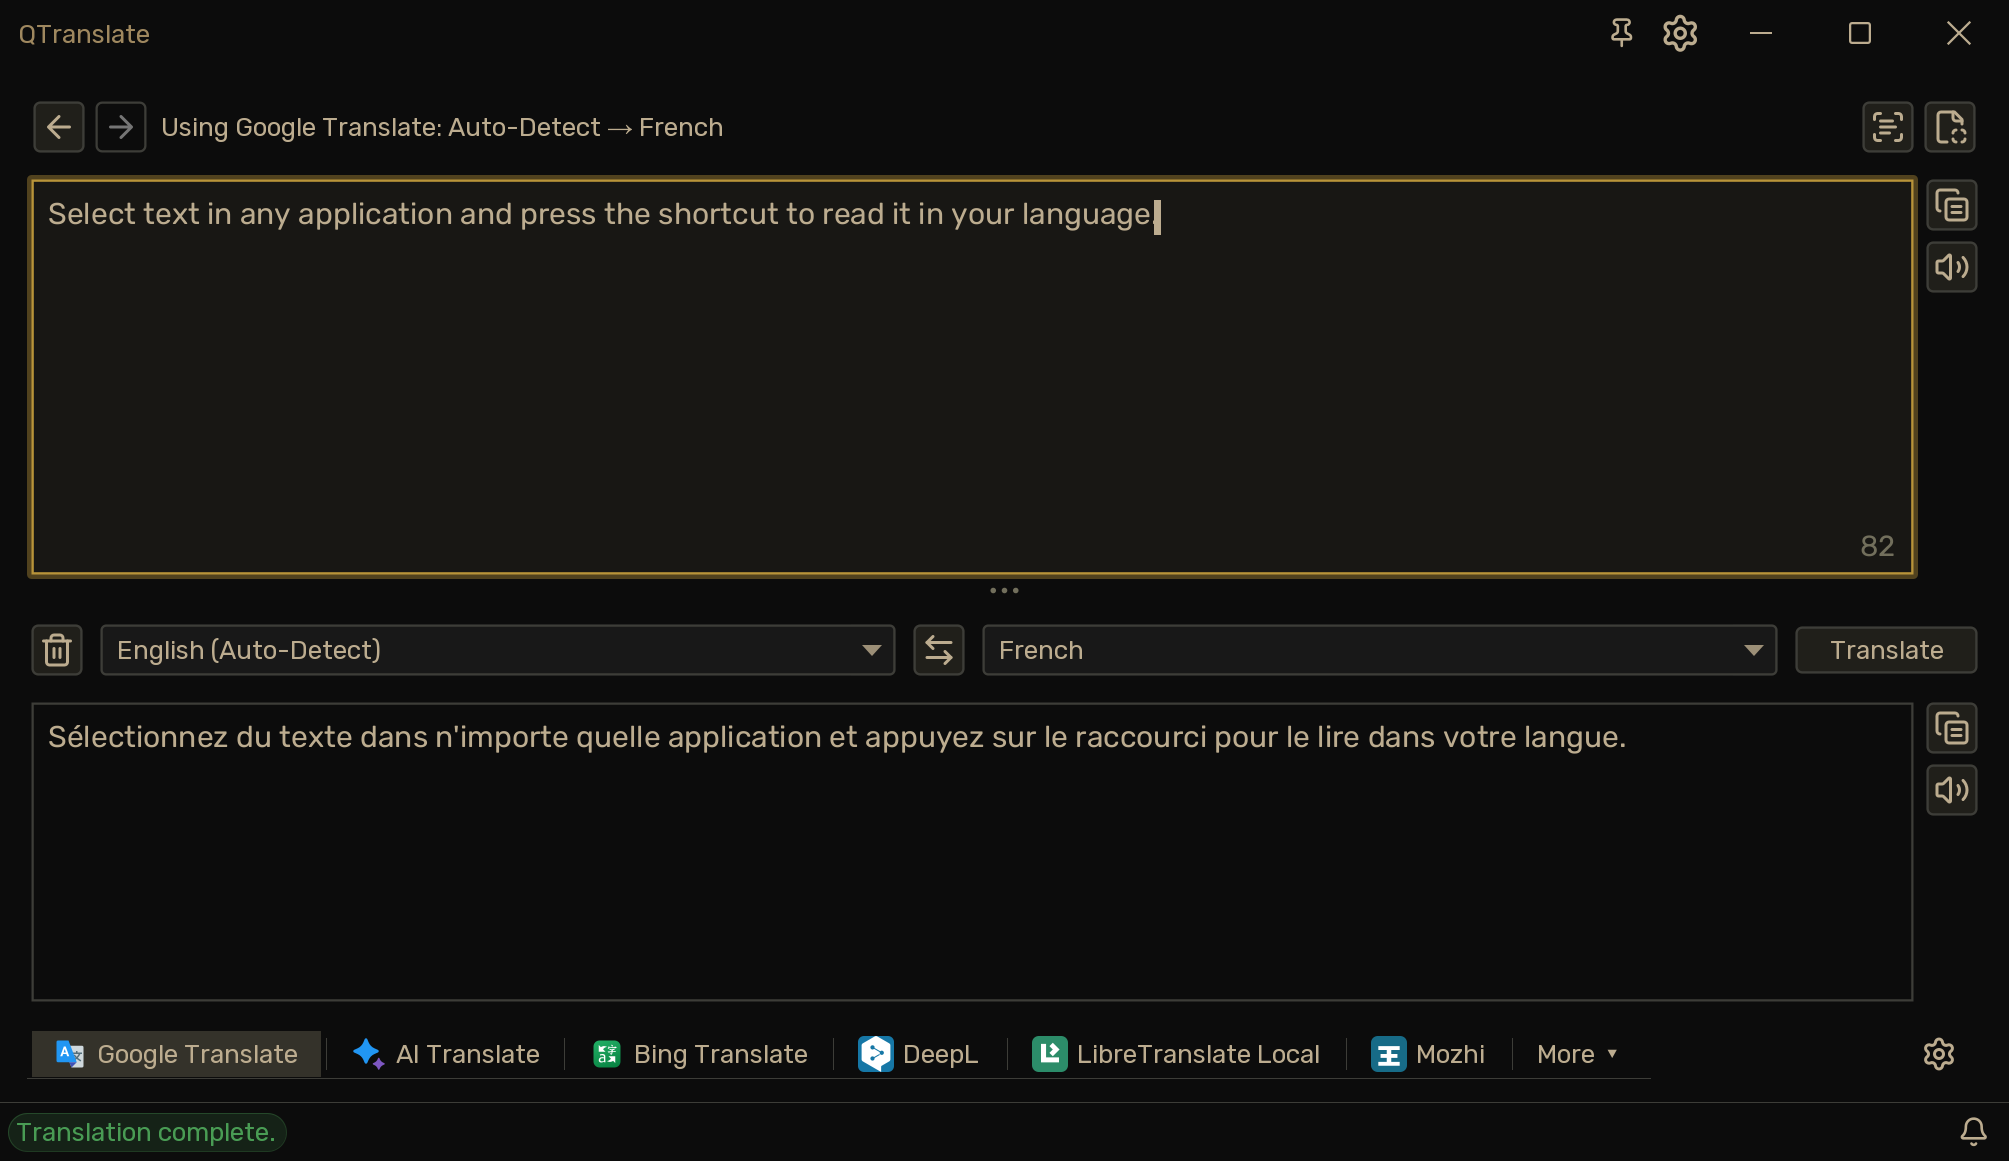
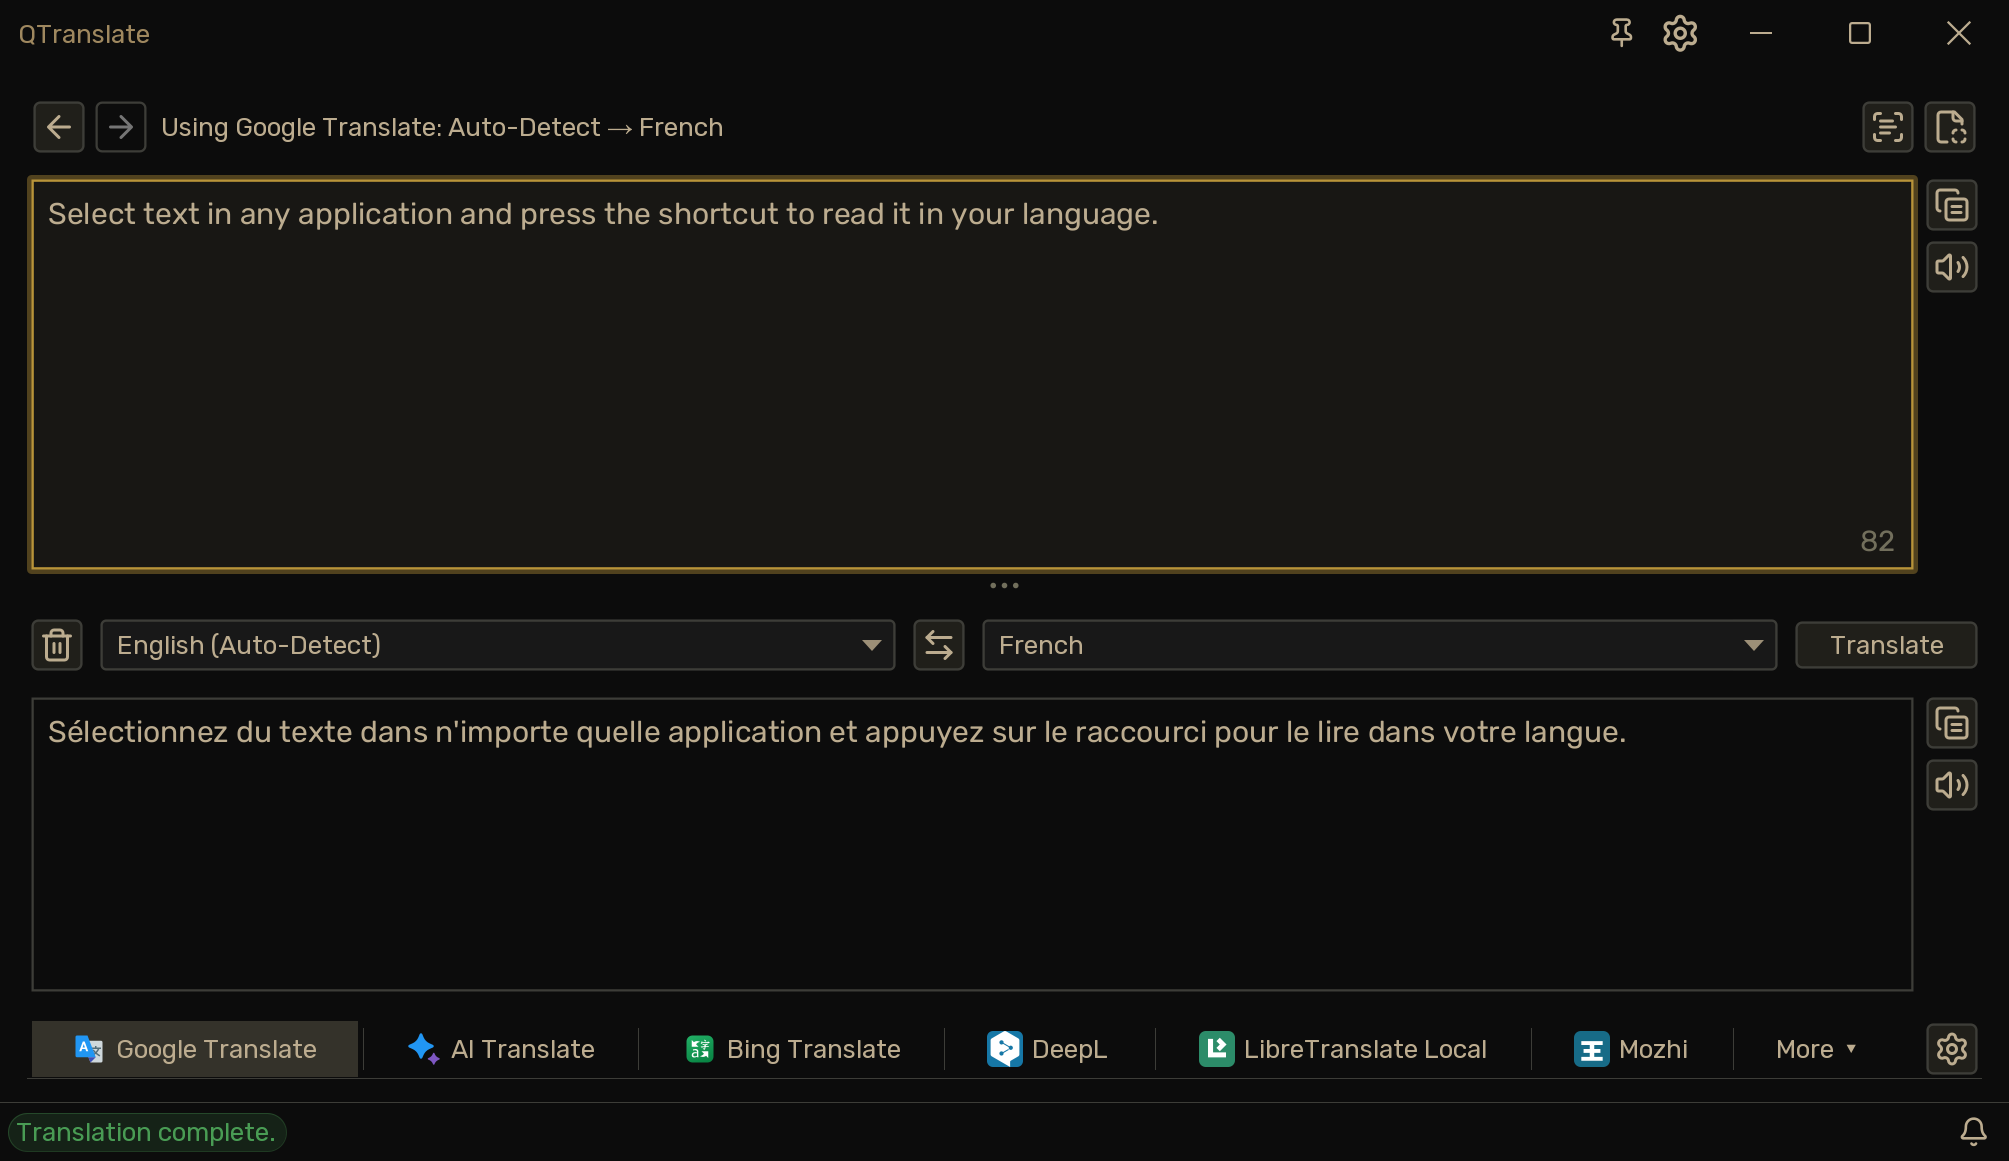
Align and stretch Classic selector row

diff --git a/ui-swing/src/main/kotlin/com/github/ahatem/qtranslate/ui/swing/main/selector/TranslatorSelector.kt b/ui-swing/src/main/kotlin/com/github/ahatem/qtranslate/ui/swing/main/selector/TranslatorSelector.kt
@@ -7,6 +7,7 @@ import com.github.ahatem.qtranslate.core.settings.data.ServiceSelectorAppearance
 import com.github.ahatem.qtranslate.core.settings.data.ServiceSelectorStyle
 import com.github.ahatem.qtranslate.api.plugin.ServiceRole
 import com.github.ahatem.qtranslate.ui.swing.shared.icon.IconManager
+import com.github.ahatem.qtranslate.ui.swing.shared.util.createButtonWithIcon
 import com.github.ahatem.qtranslate.ui.swing.shared.widgets.Renderable
 import java.awt.*
 import java.awt.event.ComponentAdapter
@@ -27,16 +28,17 @@ class TranslatorSelector(
     private var activeServiceId: String? = null
     // Classic keeps the original QTranslate's adjacent bottom tabs, with complete labels and
     // a single adaptive overflow menu for today's larger plugin set.
-    private val serviceStrip = object : JPanel(FlowLayout(FlowLayout.LEADING, 0, 0)) {
+    private val serviceStrip = object : JPanel(StretchTabsLayout()) {
         override fun paintChildren(g: Graphics) {
             super.paintChildren(g)
             val segments = components.sortedBy { it.x }
+            val oldColor = g.color
             g.color = UIManager.getColor("Component.borderColor") ?: Color.GRAY
             val inset = UIScale.scale(4)
             segments.drop(1).forEach { segment ->
                 g.drawLine(segment.x, inset, segment.x, height - inset - 1)
             }
-            if (segments.isNotEmpty()) g.drawLine(0, height - 1, width - 1, height - 1)
+            g.color = oldColor
         }
     }.apply { isOpaque = false }
     private var activeButton: JToggleButton? = null
@@ -48,16 +50,21 @@ class TranslatorSelector(
         toolTipText = "All services"
         addActionListener { showOverflowMenu(this) }
     }
-    private val configureActive = JButton(iconManager.getIcon(Icons.SETTINGS, 16, 16)).apply {
-        putClientProperty(FlatClientProperties.BUTTON_TYPE, "toolBarButton")
-        putClientProperty(FlatClientProperties.STYLE, "arc: 0")
-        margin = compactButtonMargin()
+    private val configureActive = createButtonWithIcon(iconManager, Icons.SETTINGS, 16).apply {
         toolTipText = "Configure active translation service"
         addActionListener { activeServiceId?.let(onConfigureService) }
     }
-    private val classic = JPanel(BorderLayout()).apply {
+    private val classic = object : JPanel(BorderLayout(UIScale.scale(6), 0)) {
+        override fun paintChildren(g: Graphics) {
+            super.paintChildren(g)
+            val oldColor = g.color
+            g.color = UIManager.getColor("Component.borderColor") ?: Color.GRAY
+            g.drawLine(0, height - 1, width - 1, height - 1)
+            g.color = oldColor
+        }
+    }.apply {
         isOpaque = false
-        add(serviceStrip, BorderLayout.LINE_START)
+        add(serviceStrip, BorderLayout.CENTER)
         add(configureActive, BorderLayout.LINE_END)
         addComponentListener(object : ComponentAdapter() {
             override fun componentResized(e: ComponentEvent) = fitClassicButtons()
@@ -114,7 +121,7 @@ class TranslatorSelector(
         if (width <= 0) return
         val activeWidth = activeButton?.preferredSize?.width ?: 0
         val room = (width - classic.insets.left - classic.insets.right -
-            configureActive.preferredSize.width - activeWidth).coerceAtLeast(0)
+            configureActive.preferredSize.width - UIScale.scale(6) - activeWidth).coerceAtLeast(0)
         val overflow = remainingButtons.sumOf { it.preferredSize.width } > room
         val serviceRoom = (room - if (overflow) overflowMenu.preferredSize.width else 0).coerceAtLeast(0)
         val visibleButtons = mutableListOf<AbstractButton>()
@@ -190,6 +197,45 @@ class TranslatorSelector(
     private fun compactButtonMargin() = Insets(
         UIScale.scale(1), UIScale.scale(4), UIScale.scale(1), UIScale.scale(4)
     )
+
+    /** Share spare width between whole tabs; never shrink a label to fill an arbitrary cell. */
+    private class StretchTabsLayout : LayoutManager {
+        override fun addLayoutComponent(name: String?, comp: Component?) = Unit
+        override fun removeLayoutComponent(comp: Component?) = Unit
+
+        override fun preferredLayoutSize(parent: Container): Dimension {
+            val children = parent.components.filter { it.isVisible }
+            val insets = parent.insets
+            return Dimension(
+                children.sumOf { it.preferredSize.width } + insets.left + insets.right,
+                (children.maxOfOrNull { it.preferredSize.height } ?: 0) + insets.top + insets.bottom
+            )
+        }
+
+        override fun minimumLayoutSize(parent: Container): Dimension = preferredLayoutSize(parent)
+
+        override fun layoutContainer(parent: Container) {
+            val children = parent.components.filter { it.isVisible }
+            if (children.isEmpty()) return
+            val insets = parent.insets
+            val widths = children.map { it.preferredSize.width }.toMutableList()
+            val spare = (parent.width - insets.left - insets.right - widths.sum()).coerceAtLeast(0)
+            widths.indices.forEach { index ->
+                widths[index] += spare / widths.size + if (index < spare % widths.size) 1 else 0
+            }
+            val height = (parent.height - insets.top - insets.bottom).coerceAtLeast(0)
+            var edge = if (parent.componentOrientation.isLeftToRight) insets.left else parent.width - insets.right
+            children.forEachIndexed { index, child ->
+                if (parent.componentOrientation.isLeftToRight) {
+                    child.setBounds(edge, insets.top, widths[index], height)
+                    edge += widths[index]
+                } else {
+                    edge -= widths[index]
+                    child.setBounds(edge, insets.top, widths[index], height)
+                }
+            }
+        }
+    }
 
     private inner class ServiceRenderer : DefaultListCellRenderer() {
         override fun getListCellRendererComponent(list: JList<*>?, value: Any?, index: Int, isSelected: Boolean, cellHasFocus: Boolean): Component =

diff --git a/ui-swing/src/test/kotlin/com/github/ahatem/qtranslate/ui/swing/main/selector/TranslatorSelectorTest.kt b/ui-swing/src/test/kotlin/com/github/ahatem/qtranslate/ui/swing/main/selector/TranslatorSelectorTest.kt
@@ -139,6 +139,7 @@ class TranslatorSelectorTest {
         val more = descendants(selector).filterIsInstance<JButton>().first { it.toolTipText == "All services" }
         val preceding = more.parent.components.filterIsInstance<JToggleButton>().last()
         assertEquals(preceding.x + preceding.width, more.x)
+        assertEquals(more.parent.width, more.x + more.width, "Classic tabs fill the available strip")
     }
 
     @Test
